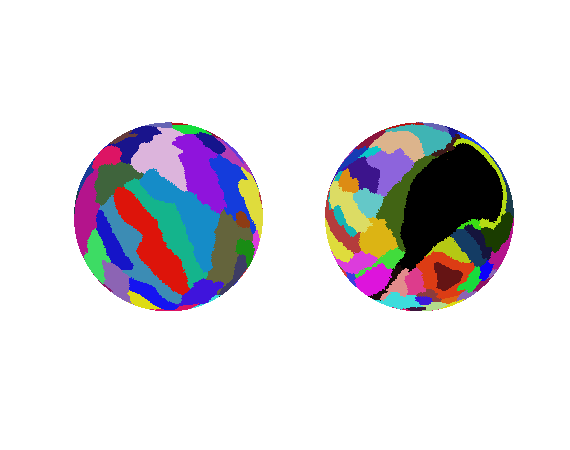
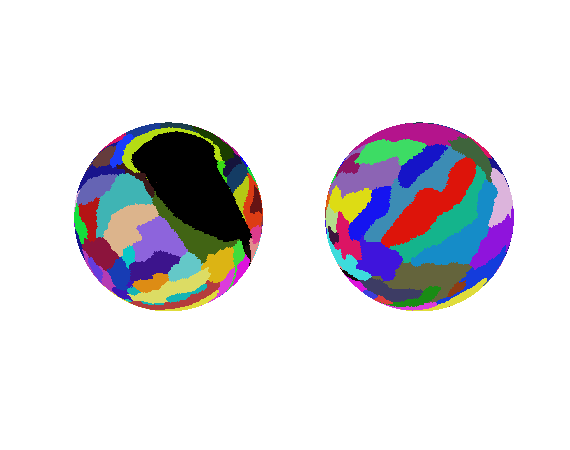
added pop of labels we'd like to replace

Changed region(s): [[0.5667, 0.2489, 0.9246, 0.7156], [0.1193, 0.2489, 0.4772, 0.7156]]

diff --git a/example.m b/example.m
@@ -57,7 +57,7 @@ quick_plot_surf(lh_sphere_faces,lh_sphere_verts,rotParc,cmap)
 %% figure out which labs are in black, and need to be repositioned
 
 % function [ labelsToReSeed ] = eval_medial_space(origMask,rotVals,spaceVal)
-fillVals = eval_medial_space(blackHoleMask,rotParc,1) ;
+fillVals = eval_medial_space(blackHoleMask,rotParc,1,'spearman') ;
 
 %% make new annot with rotated black hole filled
 
@@ -73,6 +73,10 @@ fVals4BlackHole = kfill_space(fillVals,newBlackHoleCoors) ;
 
 % write into newParc var
 newParc = rotParc .* 1 ;
+
+% all fill vals we 'pop' because they'll be moved to new place
+newParc(logical(sum(bsxfun(@eq,newParc,fillVals'),2))) = blackHoleVal ;
+
 % now put the new labs into the parc
 newParc(logical(newBlackHoleInd)) = fVals4BlackHole ;
 newParc = newParc .* ~blackHoleMask ;

diff --git a/src/rotate_sphere_parc.m b/src/rotate_sphere_parc.m
@@ -33,7 +33,7 @@ if ~exist('iMask','var') || isempty(iMask)
 end
 
 if ~exist('iThetas','var') || isempty(ithetas) 
-   thetas = randi([30, 150],1,3); % The range of rotations
+   thetas = randi([-90, 90],1,3); % The range of rotations
 else
    thetas = ithetas ; 
 end
